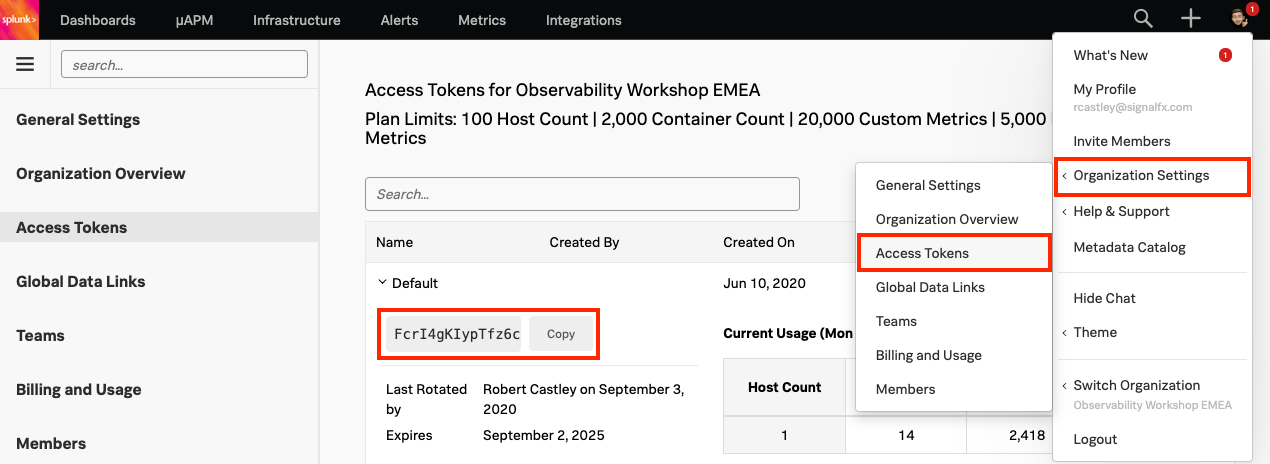
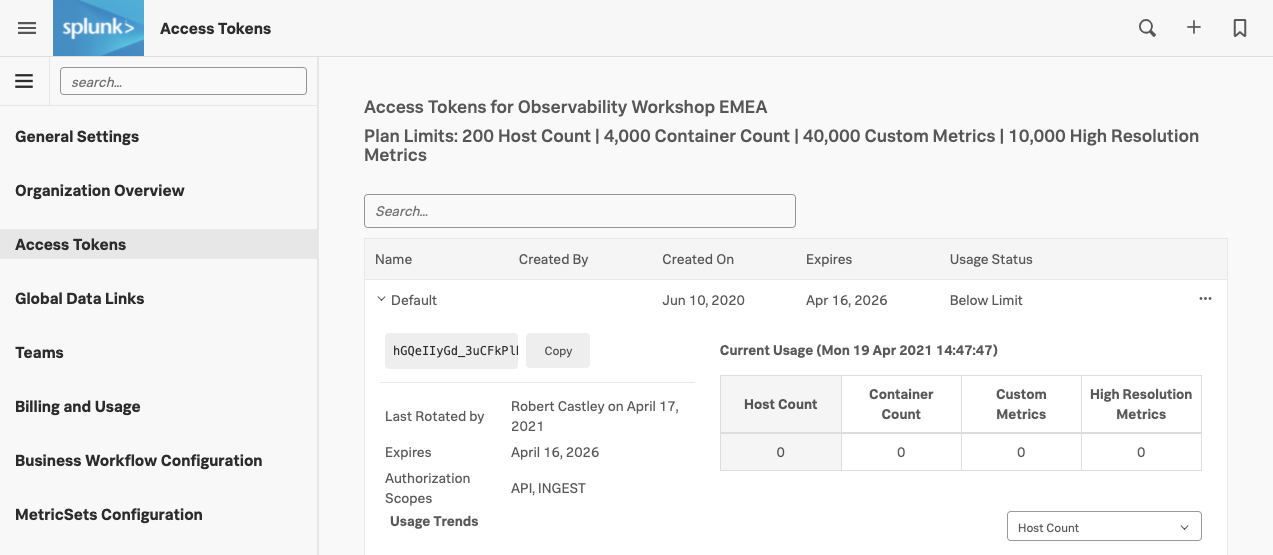
New UI screenshots

diff --git a/docs/smartagent/k3s.md b/docs/smartagent/k3s.md
@@ -9,15 +9,15 @@
 
 You will need to obtain your Access Token[^1] from the Splunk UI once Kubernetes is running.
 
-You can find your Access Token by clicking on your profile icon on the top right of the Splunk. Then select **Organization Settings → Access Tokens**.
+You can find your Access Token from the top left hamburger menu then selecting **Organization Settings → Access Tokens**.
 
 Expand the Default token, then click on **Show Token** to expose your token. Click the **Copy**{: .label-button  .sfx-ui-button-grey} button to copy to clipboard.
 
 ![Access Token](../images/smartagent/access-token.png)
 
-You will also need to obtain the name of the Realm[^2] for your Splunk account.  Click on the profile icon again, but this time select **My Profile**.
+You will also need to obtain the name of the Realm[^2] for your Splunk account.  From the hamburger menu, click on your name and select **Account Settings**.
 
-The Realm can be found in the middle of the page within the Organizations section.  In this example it is `us1`.
+The Realm can be found in the middle of the page within the Organizations section.  In this example it is `us0`.
 
 ![Realm](../images/smartagent/realm.png)
 
@@ -34,7 +34,7 @@ Create the `ACCESS_TOKEN` and `REALM` environment variables to use in the procee
     export REALM=<replace_with_splunk_realm>
     ```
 
-Install the Smart Agent or OpenTelemetry Collector using the Splunk Helm chart. Firstly, add the Splunk Helm chart repository to Helm and update.
+Install the Smart Agent or OpenTelemetry Collector using the Splunk Helm chart. First, add the Splunk Helm chart repository to Helm and update.
 
 === "Smart Agent"
 
